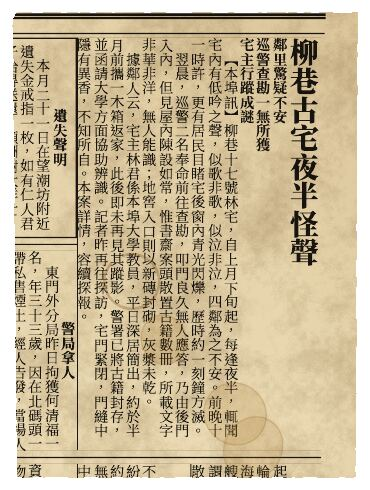
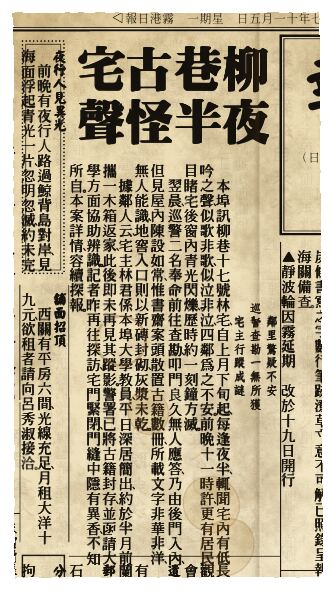
範例圖與文件：第三版整版報紙、年代預設、句讀與鉛字質感對照、字型總覽
- docs/samples/：整版（1920 年代預設）、1910／1930 年代、頂部報頭、掃描感、三種剪線，
  局部特寫（報頭、報眉、欄名、透背）、句讀三種、鉛字質感 0／100、十八套字型直排總覽（皆由列印 PDF 轉出）
- README：範例表、字型角色與年代組合、舊曆指令、專案結構；更新字型表的分片數與大小
- THIRD_PARTY_NOTICES：舊曆資料來源、第三版填版素材的原創說明

Claude-Session: https://claude.ai/code/session_01QshuMHJr6dZY8xiKzFUCcX

diff --git a/README.md b/README.md
@@ -16,6 +16,20 @@
 | --- | --- | --- | --- | --- | --- |
 | ![](docs/samples/preset-fire-letter.jpg) | ![](docs/samples/preset-sea-diary.jpg) | ![](docs/samples/preset-pocket-telegram.jpg) | ![](docs/samples/preset-cellar-deed.jpg) | ![](docs/samples/preset-torn-notes.jpg) | ![](docs/samples/preset-library-clipping.jpg) |
 
+整版報紙的年代預設與細節（第三版）：
+
+| 1910 年代（右側直排報頭） | 1920 年代（右上角報頭，預設） | 1930 年代（左上角報頭、現代標點） | 頂部橫排報頭、無標點 | 掃描感 |
+| --- | --- | --- | --- | --- |
+| ![](docs/samples/newspaper-1910s.jpg) | ![](docs/samples/newspaper-full.jpg) | ![](docs/samples/newspaper-1930s.jpg) | ![](docs/samples/newspaper-top.jpg) | ![](docs/samples/newspaper-scan.jpg) |
+
+| 報頭、報眉、欄名、透背（局部） | 句讀：無標點／舊式圈點／現代標點 | 鉛字質感：0／100 |
+| --- | --- | --- |
+| ![](docs/samples/newspaper-detail.jpg) | ![](docs/samples/newspaper-punctuation.jpg) | ![](docs/samples/newspaper-press.jpg) |
+
+字型總覽（直排，每一行開頭是字型名稱）：
+
+![字型總覽](docs/samples/fonts.jpg)
+
 更多範例（每種效果各一張）在 [`docs/samples/`](docs/samples/)。
 
 ## 道具種類
@@ -73,7 +87,7 @@
   在預覽上拖曳移動，滑鼠滾輪縮放、Shift＋滾輪旋轉；表單可調旋轉、縮放、透明度與疊放順序。
 - **瘋狂感的手寫**（信箋）：「越寫越亂」——從第幾個字開始，每個字隨機偏移、旋轉、縮放、筆壓深淺，強度可調；
   可夾雜塗改後重寫、同一句重複、字擠出邊界。
-- **字型**：每個道具的標題、內文、手寫部分可分別選字型（見下方字型表）。
+- **字型**：每個道具的報頭、標題、內文、廣告大字、手寫五個部分可分別選字型（見下方字型表）；共 18 套，含王漢宗自由字型的明體、隸書、仿宋、顏楷、行書與鋼筆行楷，以及清松手寫體與辰宇落雁體。電報、信箋、名片可一次套用 1910／1920／1930 年代的字型組合，報紙由「年代預設」一併設定。
 - **所有隨機效果都由固定的種子決定**，種子存進 JSON，按「換一個」重抽；預覽與列印完全一致。
 - 全部效果以 CSS、SVG 與程式產生，沒有使用任何圖片素材。
 - 民國紀年自動換算（1912 年＝民國元年）、中文數字（含「廿」「卅」寫法）、星期。
@@ -207,17 +221,17 @@
 
 | 字型 | 風格 | 來源（版本） | 授權 | 輸出 |
 | --- | --- | --- | --- | --- |
-| 王漢宗中明體 | 明體（內文） | 王漢宗自由字型 1.3.0 `wt002.ttf` | GPL-2.0-or-later，[`licenses/GPL-2.0.txt`](licenses/GPL-2.0.txt) | 7 片，1.41 MB |
+| 王漢宗中明體 | 明體（內文） | 王漢宗自由字型 1.3.0 `wt002.ttf` | GPL-2.0-or-later，[`licenses/GPL-2.0.txt`](licenses/GPL-2.0.txt) | 6 片，1.40 MB |
 | 王漢宗特明體 | 粗明體（標題） | 王漢宗自由字型 1.3.0 `wt004.ttf` | GPL-2.0-or-later | 8 片，1.73 MB |
 | 王漢宗超明體 | 特粗明體（報頭、大標） | 王漢宗自由字型 1.3.0 `wt005.ttf` | GPL-2.0-or-later | 7 片，1.57 MB |
-| 王漢宗特黑體 | 粗黑體（廣告大字） | 王漢宗自由字型 1.3.0 `wt014.ttf` | GPL-2.0-or-later | 6 片，1.13 MB |
+| 王漢宗特黑體 | 粗黑體（廣告大字） | 王漢宗自由字型 1.3.0 `wt014.ttf` | GPL-2.0-or-later | 5 片，1.12 MB |
 | 王漢宗中隸書 | 隸書 | 王漢宗自由字型 1.3.0 `wt021.ttf` | GPL-2.0-or-later | 8 片，1.81 MB |
 | 王漢宗中仿宋 | 仿宋（公文、告示） | 王漢宗自由字型 1.3.0 `wt024.ttf` | GPL-2.0-or-later | 9 片，1.96 MB |
 | 王漢宗顏楷體 | 顏體楷書 | 王漢宗自由字型 1.3.0 `wt064.ttf` | GPL-2.0-or-later | 8 片，1.82 MB |
 | 王漢宗中行書 | 行書 | 王漢宗自由字型 1.3.0 `wt071.ttf` | GPL-2.0-or-later | 9 片，2.02 MB |
 | 王漢宗鋼筆行楷 | 鋼筆行楷（手寫） | 王漢宗自由字型 1.3.0 `wthc06.ttf` | GPL-2.0-or-later | 6 片，1.33 MB |
-| 清松手寫體5（行楷） | 原子筆手寫 | jasonhandwriting/JasonHandwriting `e488583` | OFL（視為 1.1），[`licenses/OFL-JasonHandwriting.txt`](licenses/OFL-JasonHandwriting.txt) | 12 片，2.66 MB |
-| 清松手寫體7（飄逸） | 原子筆手寫 | 同上 | OFL（視為 1.1） | 12 片，2.63 MB |
+| 清松手寫體5（行楷） | 原子筆手寫 | jasonhandwriting/JasonHandwriting `e488583` | OFL（視為 1.1），[`licenses/OFL-JasonHandwriting.txt`](licenses/OFL-JasonHandwriting.txt) | 11 片，2.66 MB |
+| 清松手寫體7（飄逸） | 原子筆手寫 | 同上 | OFL（視為 1.1） | 11 片，2.62 MB |
 | 清松手寫體8（隨性） | 原子筆手寫 | 同上 | OFL（視為 1.1） | 11 片，2.48 MB |
 | 辰宇落雁體 Thin | 細筆手寫 | Chenyu-otf/chenyuluoyan_thin `6e36815`（2.100） | OFL 1.1，[`licenses/OFL-Chenyuluoyan.txt`](licenses/OFL-Chenyuluoyan.txt) | 1 個檔，5.35 MB |
 
@@ -271,6 +285,8 @@ BASE=/minguo-props/ pnpm serve
 | `pnpm serve` | 只綁定 127.0.0.1 的本機預覽伺服器（提供 `dist/`；`BASE` 環境變數可指定子路徑） |
 | `pnpm data:telegraph` | 從 unicode.org 下載 `Unihan.zip` 並重新產生 `src/data/telegraph.json` 與 `src/data/big5-level1.json` |
 | `pnpm data:check` | 重新產生並與已提交的電碼資料比對（不寫入） |
+| `pnpm data:lunar` | 下載香港天文台 1911～1950 年的公曆農曆對照表（釘選的鏡像、驗證 SHA-256），重新產生 `src/data/lunar.ts` |
+| `pnpm data:lunar-check` | 重新產生並與已提交的舊曆資料比對（不寫入） |
 | `pnpm fonts:generate` | 下載釘選的字型原始檔（快取在 `.cache/fonts/`）、驗證 SHA-256，切子集、分片、壓縮，寫入 `fonts/` 與 `fonts/manifest.json`；之後依提示更新 `src/fonts.ts` 的 SHA-256 等欄位 |
 | `pnpm fonts:check` | 重新產生到暫存目錄，與已提交的 `fonts/` 逐位元組比對（不寫入） |
 
@@ -300,12 +316,13 @@ src/
   state.ts            存檔格式（匯出／匯入、localStorage 共用）
   fonts.ts            可選字型清單（來源、版本、授權、SHA-256）
   lib/                純邏輯：民國紀年、中文數字、韻目代日、電碼查詢、亂數、幾何、剪線、紙張狀況規劃、
-                      文字層標記、裝飾形狀、越寫越亂、整版排版（lib/newspaper/）
-  props/              四種道具的欄位定義、預設內容、紙張狀況與情境預設、存檔中的結構化資料
+                      文字層標記、裝飾形狀、越寫越亂、舊曆、整版排版（lib/newspaper/：不規則版面 broadsheet、
+                      欄內流排 flow、廣告 ads、句讀 punctuation、鉛字質感 press、紙面座標 sheetgeom）
+  props/              四種道具的欄位定義、預設內容、紙張狀況與情境預設、年代預設（eras）、存檔中的結構化資料
   render/             四種道具的版面、紙張狀況、裝飾
   ui/                 表單產生器、照片處理、新聞條目、裁切、裝飾編輯、預覽選單
   styles/             介面、道具與列印樣式
-  data/               電碼資料、Big5 常用字表（由腳本產生）、填版素材
+  data/               電碼資料、Big5 常用字表、舊曆對照表（由腳本產生）、填版素材
 scripts/              建置、本機伺服器、電碼資料與字型產生腳本（tar、SFNT、WOFF 1.0、子集化、分片等工具在 scripts/lib/）
 fonts/                自行處理的字型與 manifest.json（由 pnpm fonts:generate 產生）
 .github/workflows/    CI、電碼資料比對、字型比對、GitHub Pages 部署

diff --git a/THIRD_PARTY_NOTICES.md b/THIRD_PARTY_NOTICES.md
@@ -160,10 +160,21 @@ GPL 的處理方式：
 Unicode and the Unicode Logo are registered trademarks of Unicode, Inc. in the U.S. and other countries.
 本專案與 Unicode, Inc. 沒有任何關係，也未獲其背書。
 
+## 舊曆（公曆與農曆對照）
+
+- 檔案：`src/data/lunar.ts`（1911～1949 年各農曆年的正月初一、各月天數與閏月），由 `scripts/lunar-table.ts` 產生
+- 來源：香港天文台《公曆與農曆日期對照表》（<https://www.hko.gov.hk/tc/gts/time/conversion.htm>）1911～1950 年的文字檔
+  `T<年>c.txt`。建置環境連不到天文台網站，所以從 GitHub 上原樣收錄這些檔案的 `xwjdsh/lunar` 倉庫
+  （commit `9bbf91a8c27a29d6d81cfe1529af94a691ebffeb`）下載，並驗證 40 個檔案串接後的 SHA-256
[1 lines of base64/hex data omitted]
+- 本專案只取用其中的日期事實（每月初一的公曆日期、大小月、閏月），整理成精簡的對照表；不收錄原檔
+
 ## 其他
 
 - 紙張狀況（泛黃、紙紋、紙邊、破洞、浸水、摺痕、揉皺、斑點、霉斑等）與裝飾（血跡、戳記、怪符號等）全部以 CSS、
   SVG 與程式即時產生，沒有使用任何圖片素材；怪符號是程式隨機組合的原創圖形，不取材自任何現有作品。
-- 報紙填版素材（`src/data/fillers.ts` 與 `src/lib/newspaper/fillers.ts`）全部為本專案原創、虛構，
-  不含真實報紙文字、商號、藥名、品牌或人名，隨程式碼以 MIT 授權釋出。
+- 報紙填版素材（`src/data/fillers.ts` 與 `src/lib/newspaper/fillers.ts`，含第三版新增的副題新聞、特大字廣告與欄名）
+  全部為本專案原創、虛構，不含真實報紙文字、報頭、廣告文字、商號、藥名、品牌、商標或人名，隨程式碼以 MIT 授權釋出。
+  版面風格參考民國時期報紙的一般樣式（不規則分欄、圈點、黑底欄名等），沒有照抄任何一份真實報紙的版面或文字。
+  英文報名預設為虛構的 THE MIST HARBOUR DAILY；報頭框裡的「中華郵政特准掛號認為新聞紙類」是當時報紙通用的登記字樣，不屬於任何一家報紙。
 - 執行期沒有任何第三方 JavaScript 函式庫。
